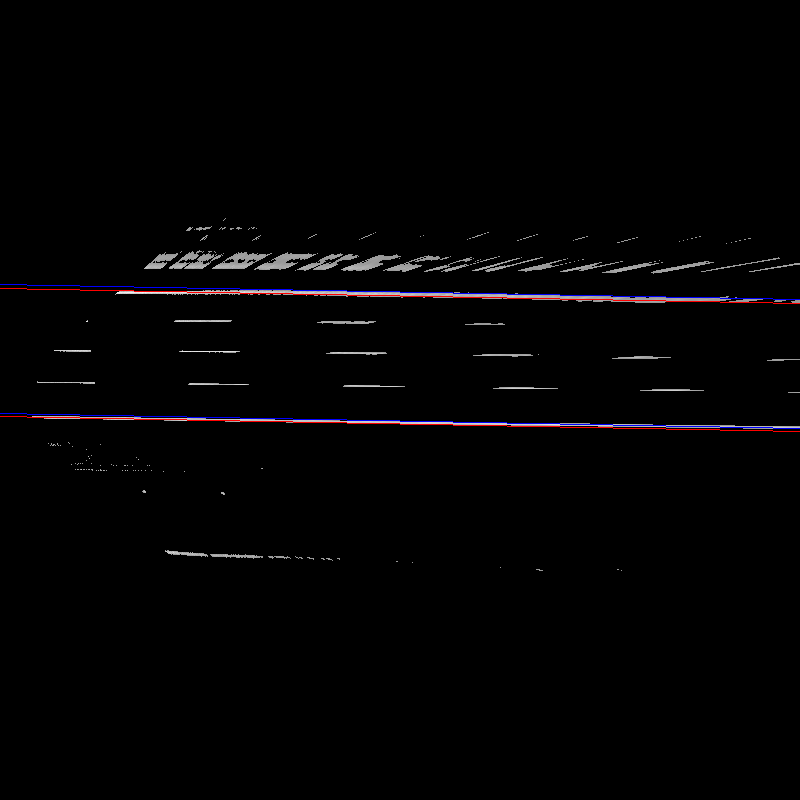
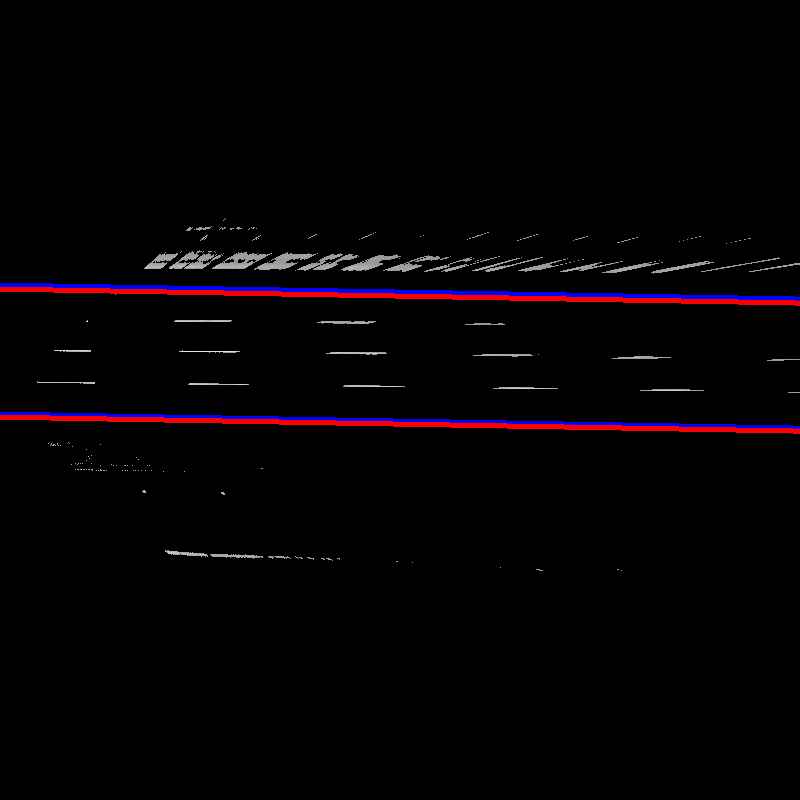
line width modified

Changed region(s): [[0.0, 0.3438, 1.0, 0.4062], [0.0, 0.5, 1.0, 0.5625]]

diff --git a/ipm.py b/ipm.py
@@ -16,7 +16,8 @@ from utils import perspective, Plane, load_camera_params, bilinear_sampler, warp
 image = cv2.cvtColor(cv2.imread('1.png'), cv2.COLOR_BGR2RGB)
 interpolation_fn = bilinear_sampler  # or warped
 TARGET_H, TARGET_W = 800, 800
-quanta = 0.001
+INCREMENT_COEFF = 0.001
+PARALLELISM_TOLERANCE = 1 #comparison level for detecting paralelism 
 
 def ipm_from_parameters(image, xyz, K, RT, interpolation_fn):
     # Flip y points positive upwards
@@ -89,7 +90,7 @@ def get_lines():
         y2 = int(y0 - 1000 * (a)) # y2 stores the rounded off value of (r * sin(theta)- 1000 * cos(theta))
         ll = myLine(x1, y1, x2, y2)
         det_lines.append(ll)
-        cv2.line(threshold_filter_gray, (x1, y1), (x2, y2), (255, 0, 0), 1)
+        cv2.line(threshold_filter_gray, (x1, y1), (x2, y2), (255, 0, 0), 3)
         #print("x1: " + str(x1) + "\ty1:" + str(y1)+ "\tx2:" + str(x2)+ "\ty2:" + str(y2))
 
     #find duplicate lines
@@ -124,7 +125,7 @@ def get_lines():
 
     #draw plot
     for i in range(len(det_lines)):
-        cv2.line(threshold_filter_gray, (det_lines[i].x1, det_lines[i].y1), (det_lines[i].x2, det_lines[i].y2), (0, 0, 255), 1)
+        cv2.line(threshold_filter_gray, (det_lines[i].x1, det_lines[i].y1), (det_lines[i].x2, det_lines[i].y2), (0, 0, 255), 3)
     
     cv2.namedWindow('image', cv2.WINDOW_NORMAL)
     cv2.resizeWindow('image', 900, 900)
@@ -144,8 +145,7 @@ def get_lines():
                 dist_end = distance(det_lines[i].x2, det_lines[i].y2, det_lines[j].x2, det_lines[j].y2)
                 #print("d1 " + str(dist_start))
                 #print("d2 " + str(dist_end))
-                if(abs(dist_start - dist_end) < 1
-                ):
+                if(abs(dist_start - dist_end) < PARALLELISM_TOLERANCE):
                     return 1
                 j = j + 1
             i = i + 1
@@ -172,7 +172,7 @@ if __name__ == '__main__':
         else:
             cv2.waitKey(1)
         
-        pitch = pitch + quanta
+        pitch = pitch + INCREMENT_COEFF
         json_object['pitch'] = pitch
         a_file = open("camera.json", "w")
         json.dump(json_object, a_file)
